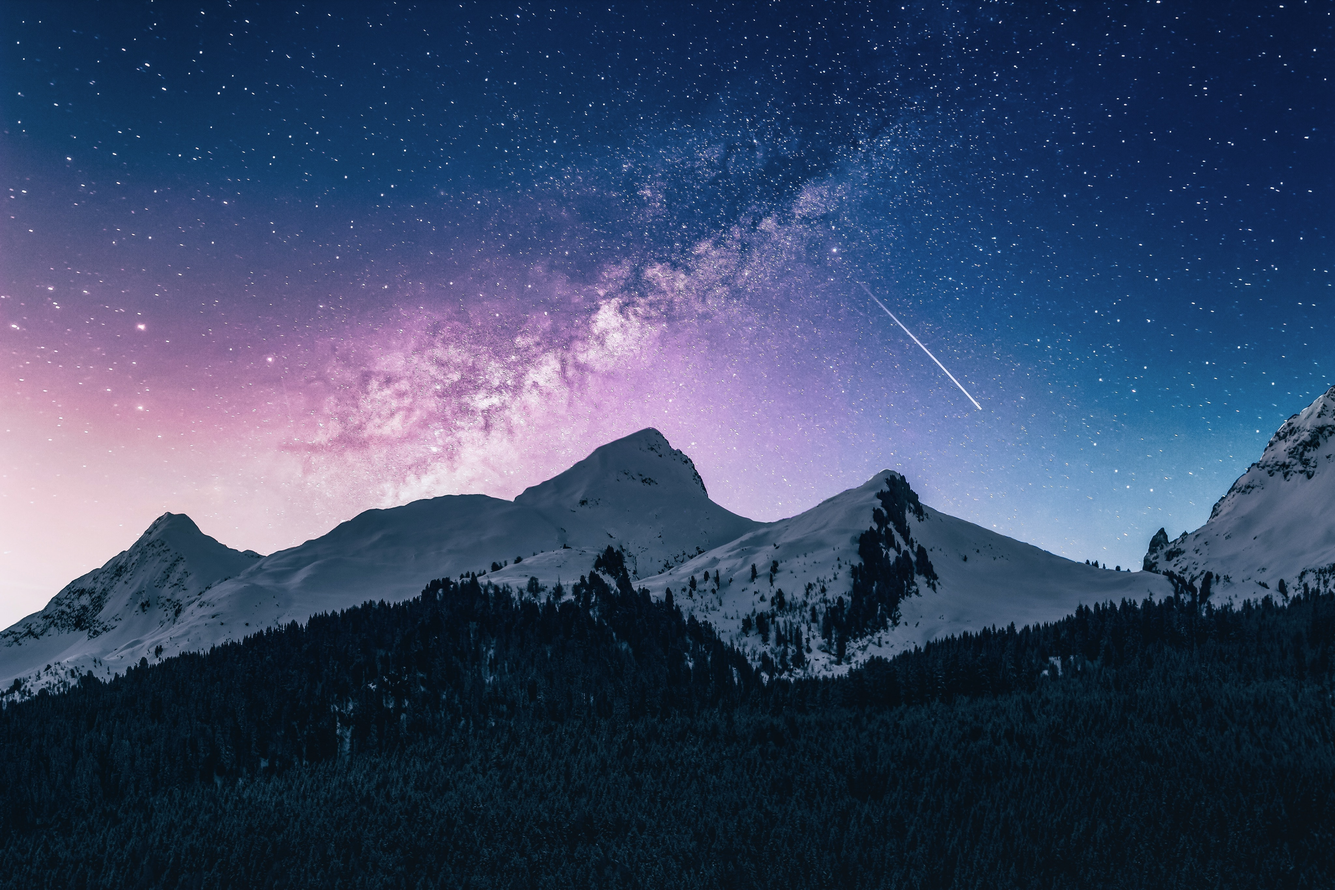
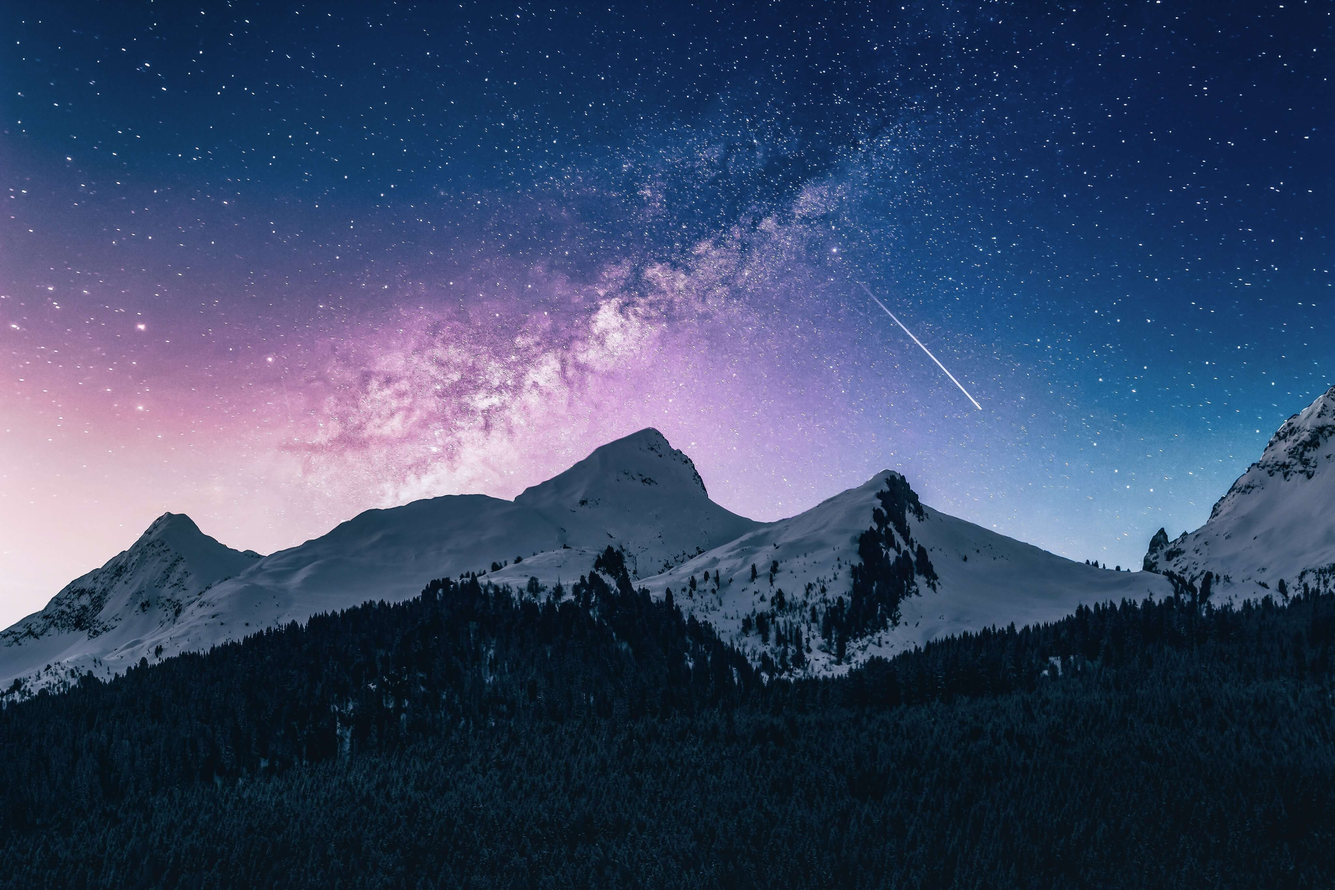
Site updated: 2020-01-31 17:28:11

Changed region(s): [[0.25, 0.1555, 0.6562, 0.4976]]

diff --git a/2020/01/30/hello-world/index.html b/2020/01/30/hello-world/index.html
@@ -107,7 +107,7 @@
 </nav>
 
     <div class="view intro-2" id="background"
-         style="background: url('/img/default.jpg')no-repeat center center;
+         style="background: url('/img/https://s2.ax1x.com/2020/01/31/13fTtx.jpg')no-repeat center center;
            background-size: cover;
            background-attachment: fixed;">
       <div class="full-bg-img">

diff --git a/2020/01/31/testworld/index.html b/2020/01/31/testworld/index.html
@@ -107,7 +107,7 @@
 </nav>
 
     <div class="view intro-2" id="background"
-         style="background: url('/img/default.jpg')no-repeat center center;
+         style="background: url('/img/https://s2.ax1x.com/2020/01/31/13fTtx.jpg')no-repeat center center;
            background-size: cover;
            background-attachment: fixed;">
       <div class="full-bg-img">

diff --git a/404.html b/404.html
@@ -107,7 +107,7 @@
 </nav>
 
     <div class="view intro-2" id="background"
-         style="background: url('/img/default.jpg')no-repeat center center;
+         style="background: url('https://s2.ax1x.com/2020/01/31/13fTtx.jpg')no-repeat center center;
            background-size: cover;
            background-attachment: fixed;">
       <div class="full-bg-img">

diff --git a/about/index.html b/about/index.html
@@ -107,7 +107,7 @@
 </nav>
 
     <div class="view intro-2" id="background"
-         style="background: url('/img/default.jpg')no-repeat center center;
+         style="background: url('https://s2.ax1x.com/2020/01/31/13fTtx.jpg')no-repeat center center;
            background-size: cover;
            background-attachment: fixed;">
       <div class="full-bg-img">

diff --git a/archives/2020/01/index.html b/archives/2020/01/index.html
@@ -107,7 +107,7 @@
 </nav>
 
     <div class="view intro-2" id="background"
-         style="background: url('/img/default.jpg')no-repeat center center;
+         style="background: url('https://s2.ax1x.com/2020/01/31/13fTtx.jpg')no-repeat center center;
            background-size: cover;
            background-attachment: fixed;">
       <div class="full-bg-img">

diff --git a/archives/2020/index.html b/archives/2020/index.html
@@ -107,7 +107,7 @@
 </nav>
 
     <div class="view intro-2" id="background"
-         style="background: url('/img/default.jpg')no-repeat center center;
+         style="background: url('https://s2.ax1x.com/2020/01/31/13fTtx.jpg')no-repeat center center;
            background-size: cover;
            background-attachment: fixed;">
       <div class="full-bg-img">

diff --git a/archives/index.html b/archives/index.html
@@ -107,7 +107,7 @@
 </nav>
 
     <div class="view intro-2" id="background"
-         style="background: url('/img/default.jpg')no-repeat center center;
+         style="background: url('https://s2.ax1x.com/2020/01/31/13fTtx.jpg')no-repeat center center;
            background-size: cover;
            background-attachment: fixed;">
       <div class="full-bg-img">

diff --git a/categories/index.html b/categories/index.html
@@ -107,7 +107,7 @@
 </nav>
 
     <div class="view intro-2" id="background"
-         style="background: url('/img/default.jpg')no-repeat center center;
+         style="background: url('https://s2.ax1x.com/2020/01/31/13fTtx.jpg')no-repeat center center;
            background-size: cover;
            background-attachment: fixed;">
       <div class="full-bg-img">

diff --git a/index.html b/index.html
@@ -107,7 +107,7 @@
 </nav>
 
     <div class="view intro-2" id="background"
-         style="background: url('/img/default.jpg')no-repeat center center;
+         style="background: url('https://s2.ax1x.com/2020/01/31/13fTtx.jpg')no-repeat center center;
            background-size: cover;
            background-attachment: fixed;">
       <div class="full-bg-img">

diff --git a/tags/LaTeX/index.html b/tags/LaTeX/index.html
@@ -107,7 +107,7 @@
 </nav>
 
     <div class="view intro-2" id="background"
-         style="background: url('/img/default.jpg')no-repeat center center;
+         style="background: url('https://s2.ax1x.com/2020/01/31/13fTtx.jpg')no-repeat center center;
            background-size: cover;
            background-attachment: fixed;">
       <div class="full-bg-img">

diff --git a/tags/Math/index.html b/tags/Math/index.html
@@ -107,7 +107,7 @@
 </nav>
 
     <div class="view intro-2" id="background"
-         style="background: url('/img/default.jpg')no-repeat center center;
+         style="background: url('https://s2.ax1x.com/2020/01/31/13fTtx.jpg')no-repeat center center;
            background-size: cover;
            background-attachment: fixed;">
       <div class="full-bg-img">

diff --git a/tags/Test/index.html b/tags/Test/index.html
@@ -107,7 +107,7 @@
 </nav>
 
     <div class="view intro-2" id="background"
-         style="background: url('/img/default.jpg')no-repeat center center;
+         style="background: url('https://s2.ax1x.com/2020/01/31/13fTtx.jpg')no-repeat center center;
            background-size: cover;
            background-attachment: fixed;">
       <div class="full-bg-img">
